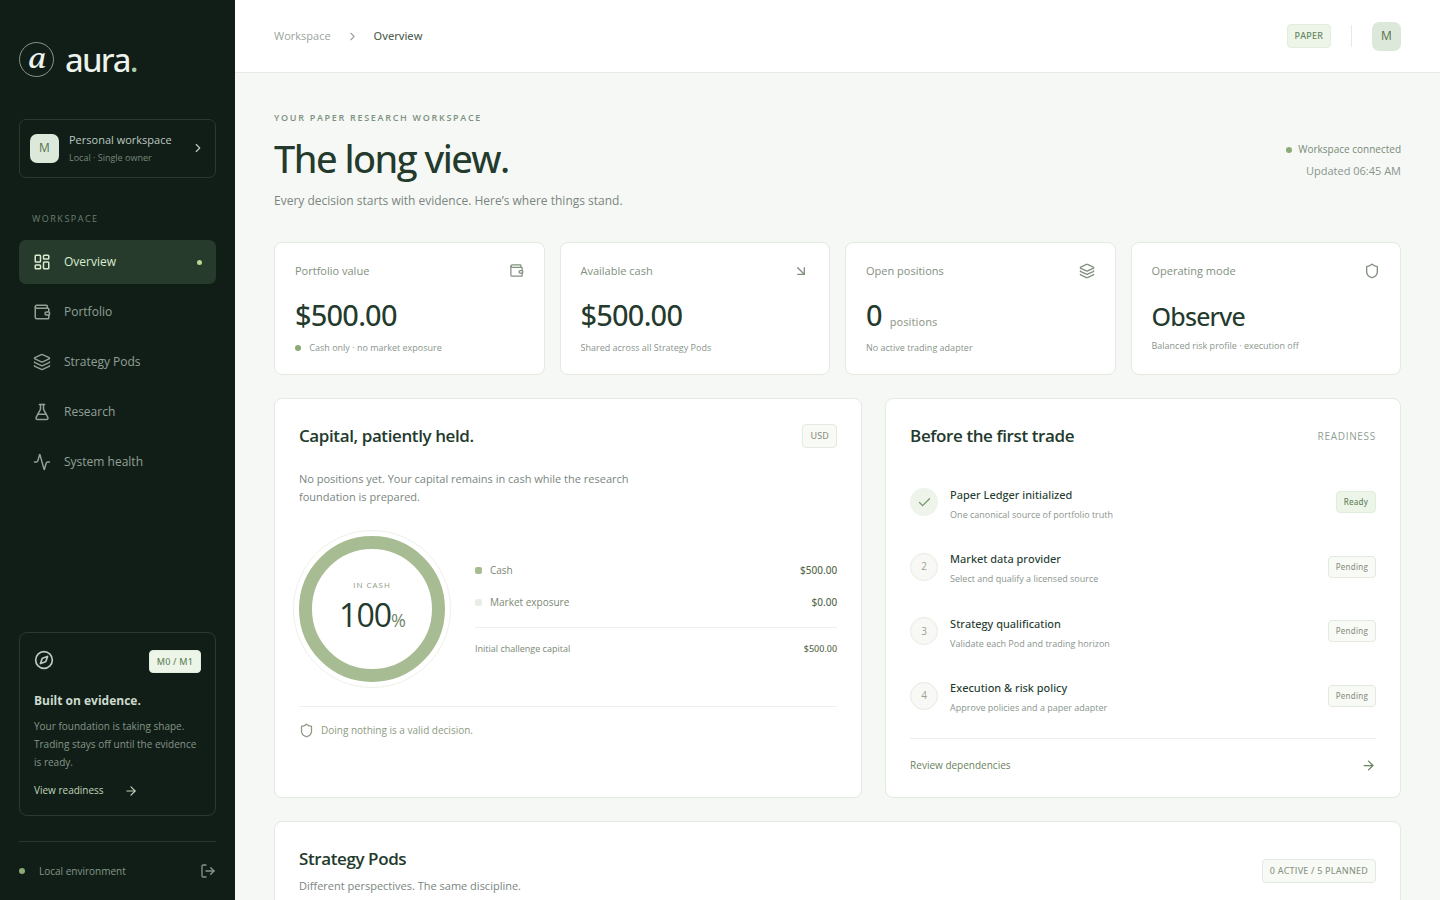
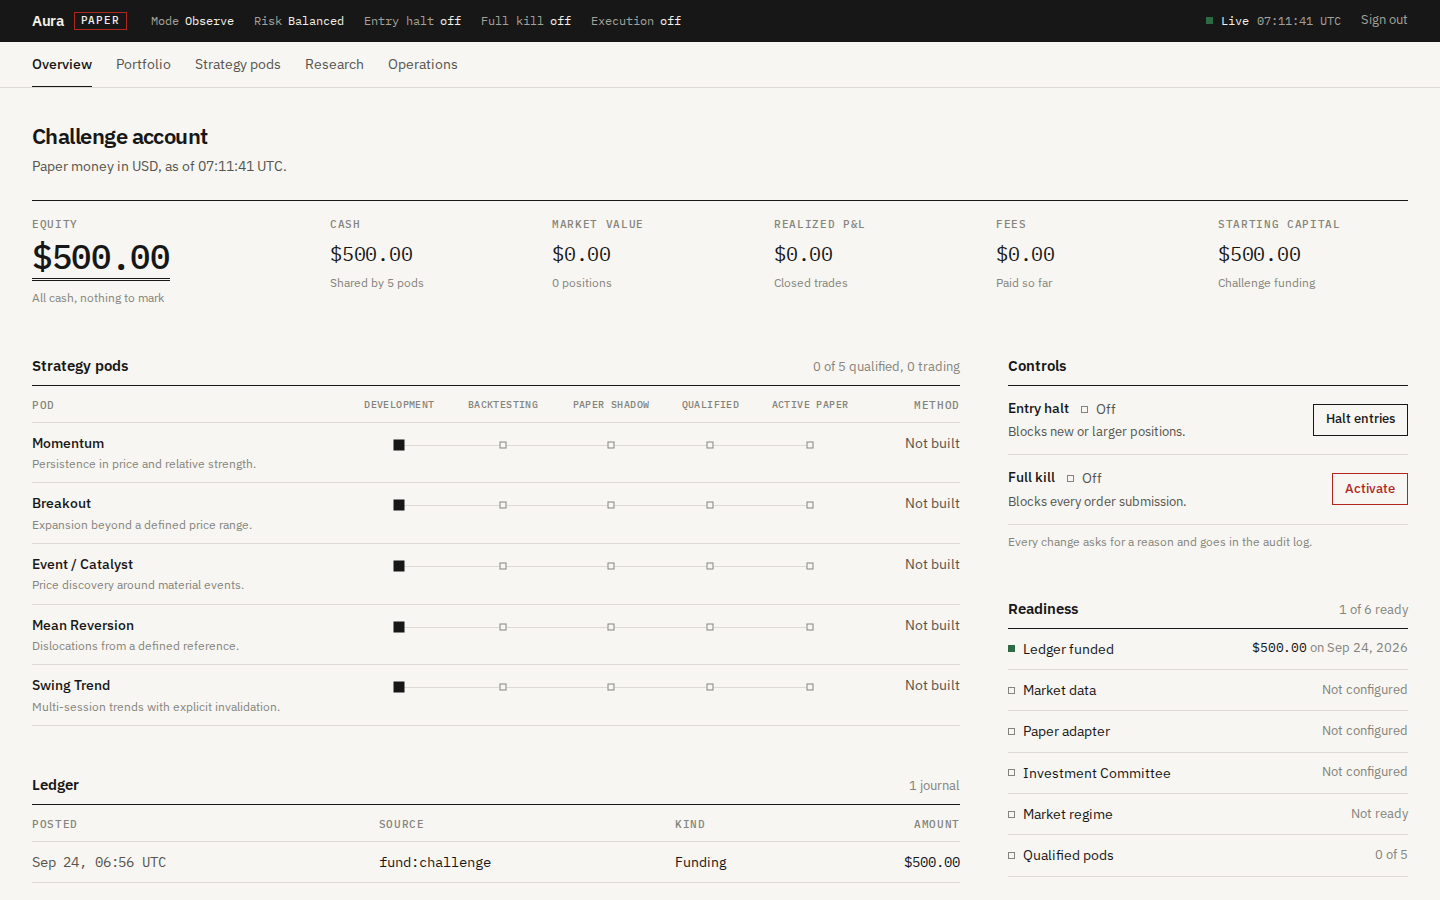
Show the redesigned Aura workspace
Replace the Aura screenshot with the overview from its clean-slate
redesign (a ledger-style layout: status bar, account statement, pod
lifecycle grid and controls), captured from a local run at 1440x900.

diff --git a/src/content/projects.ts b/src/content/projects.ts
@@ -31,7 +31,7 @@ export const projects: Project[] = [
     stack: ['Python', 'FastAPI', 'PostgreSQL', 'React', 'TypeScript'],
     image: {
       src: aura,
-      alt: 'The Aura overview: $500.00 of paper capital held entirely in cash, beside a checklist of what must be ready before the first trade',
+      alt: 'The Aura overview: a $500.00 paper account with its equity double-underlined, five strategy pods on a lifecycle grid, and the entry halt and full kill controls',
     },
     links: [{ href: 'https://github.com/Mihir9702/Aura', label: 'Source' }],
   },
